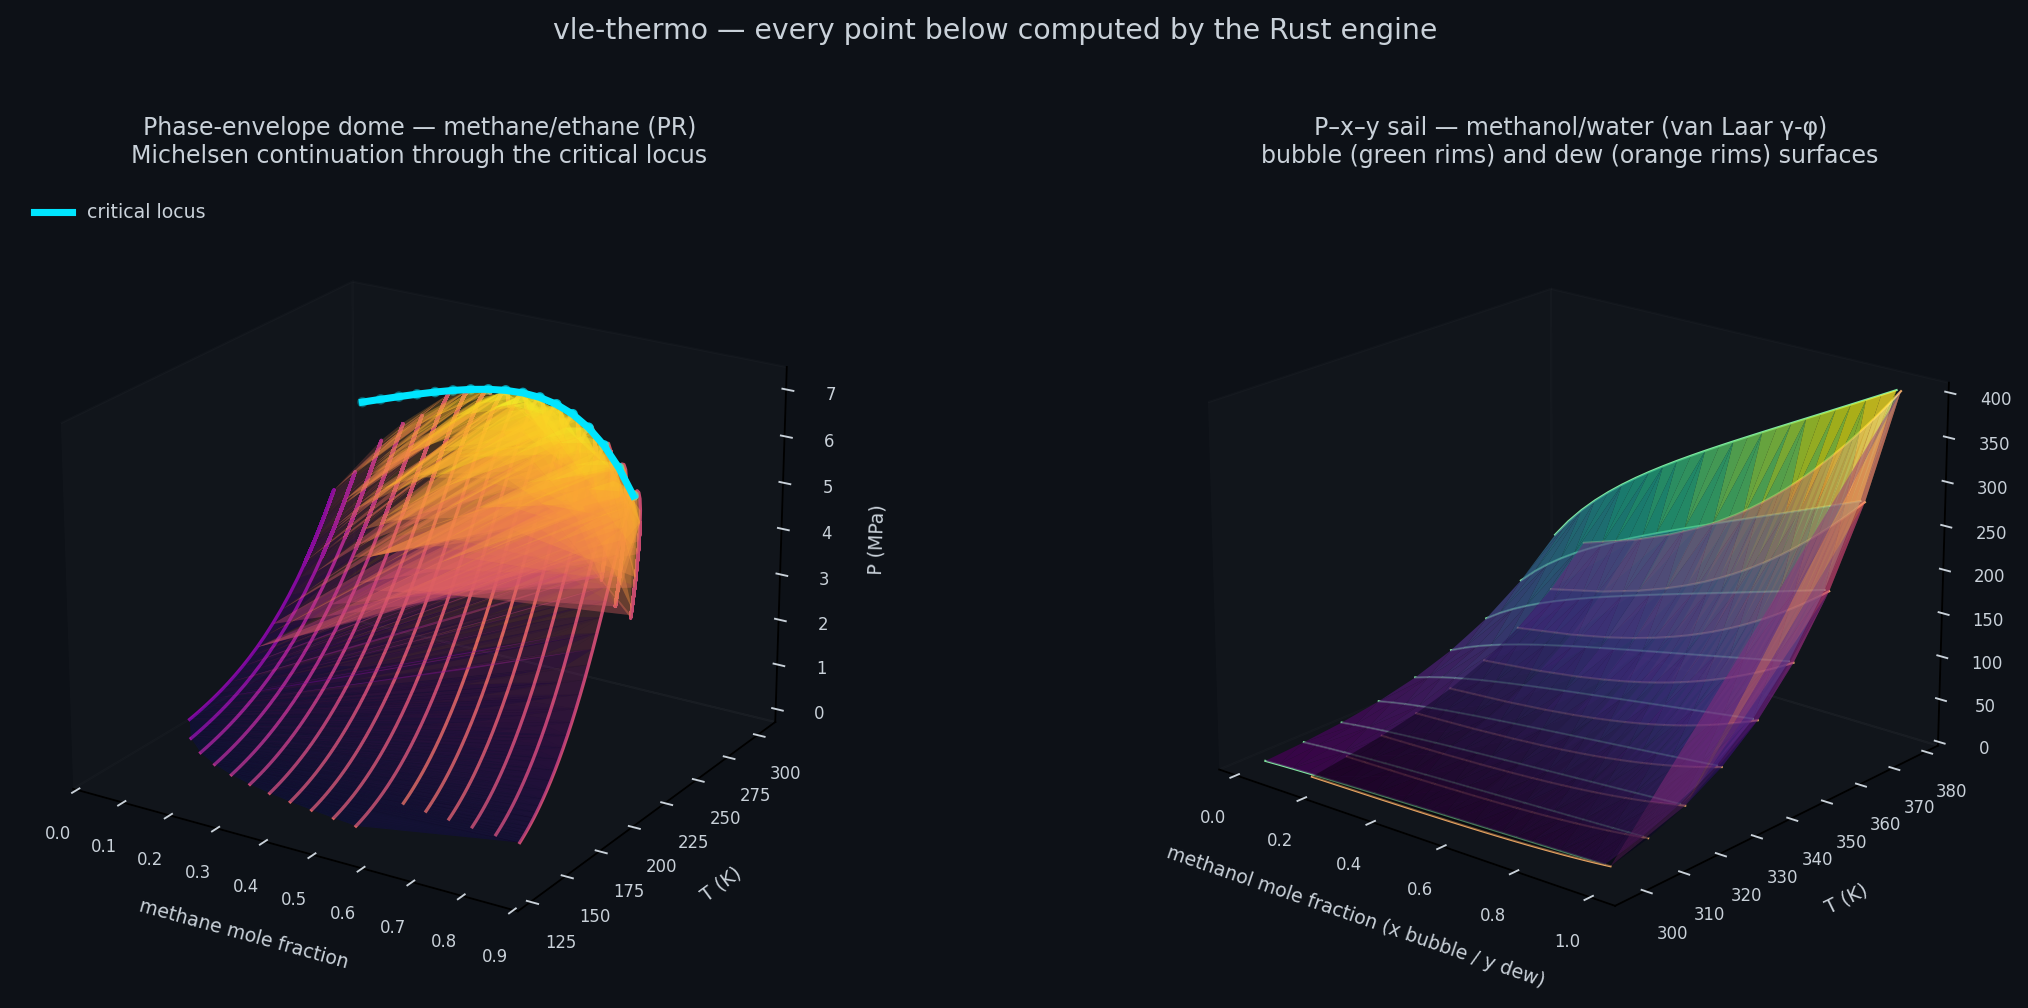
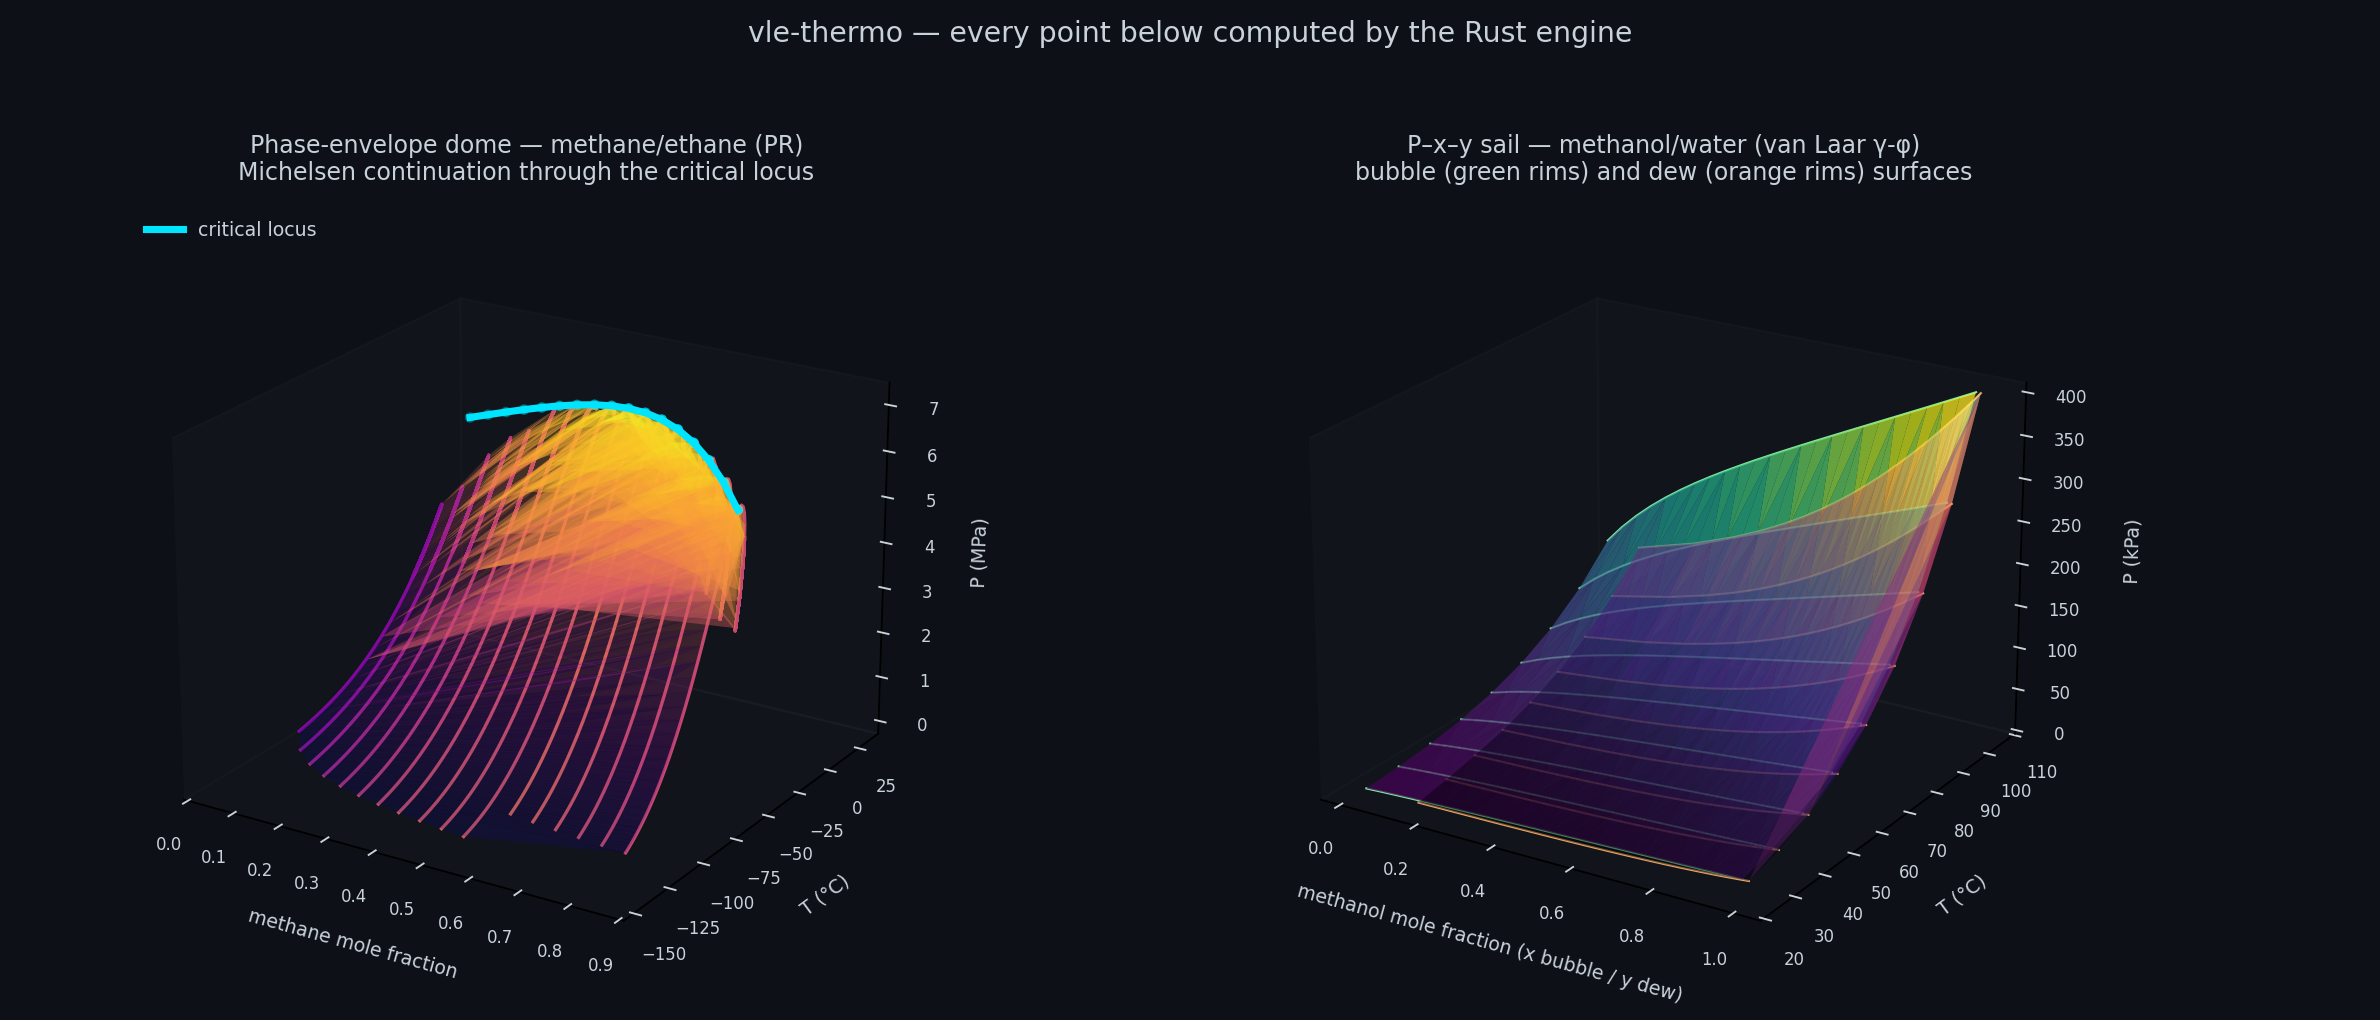
fix(assets): hero image in °C + visible sail pressure label
- Temperature axes on both 3-D panels now render in degrees Celsius
  (dome: −150 to 25 °C; sail: 20 to 110 °C). The conversion happens at
  render time only — the committed CSVs keep the engine's canonical
  Kelvin.
- The P–x–y sail's "P (kPa)" axis label was clipped at the figure edge by
  the bbox_inches="tight" export (mplot3d z-labels at the boundary get
  cut). Switched to explicit subplot margins with a reserved right margin
  and matched the dome's viewing geometry — both pressure labels are now
  visible.

Regenerated docs/assets/phase_surfaces_hero.png via
scripts/render_3d_hero.py.

Claude-Session: https://claude.ai/code/session_01EKPTwkPq6Pkk5ZQoivi8rd

diff --git a/scripts/render_3d_hero.py b/scripts/render_3d_hero.py
@@ -52,7 +52,8 @@ def main() -> None:
     # ---- Left: the phase-envelope dome --------------------------------
     ax1 = fig.add_subplot(1, 2, 1, projection="3d")
     style_axis(ax1)
-    z1, t, p = dome["z1"], dome["T_K"], dome["P_kPa"]
+    # Render temperatures in °C (the CSVs keep the engine's canonical K).
+    z1, t, p = dome["z1"], dome["T_K"] - 273.15, dome["P_kPa"]
     # Envelope curves per composition, colored by pressure (plasma).
     norm = plt.Normalize(p.min(), p.max())
     for z_val in np.unique(z1):
@@ -70,15 +71,15 @@ def main() -> None:
     # Critical locus — the glowing ridge.
     order = np.argsort(crit["z1"])
     ax1.plot(
-        crit["z1"][order], crit["Tc_K"][order], crit["Pc_kPa"][order] / 1000.0,
+        crit["z1"][order], (crit["Tc_K"][order] - 273.15), crit["Pc_kPa"][order] / 1000.0,
         color="#00e5ff", lw=3.0, alpha=1.0, zorder=10, label="critical locus",
     )
     ax1.scatter(
-        crit["z1"][order], crit["Tc_K"][order], crit["Pc_kPa"][order] / 1000.0,
+        crit["z1"][order], (crit["Tc_K"][order] - 273.15), crit["Pc_kPa"][order] / 1000.0,
         color="#00e5ff", s=12, zorder=11,
     )
     ax1.set_xlabel("methane mole fraction", color=FG, fontsize=8, labelpad=6)
-    ax1.set_ylabel("T (K)", color=FG, fontsize=8, labelpad=6)
+    ax1.set_ylabel("T (°C)", color=FG, fontsize=8, labelpad=6)
     ax1.set_zlabel("P (MPa)", color=FG, fontsize=8, labelpad=4)
     ax1.set_title(
         "Phase-envelope dome — methane/ethane (PR)\nMichelsen continuation through the critical locus",
@@ -91,7 +92,7 @@ def main() -> None:
     # ---- Right: the P-x-y sail -----------------------------------------
     ax2 = fig.add_subplot(1, 2, 2, projection="3d")
     style_axis(ax2)
-    ts, x1, y1, ps = sail["T_K"], sail["x1"], sail["y1"], sail["P_kPa"]
+    ts, x1, y1, ps = sail["T_K"] - 273.15, sail["x1"], sail["y1"], sail["P_kPa"]
     # Bubble surface (over x1) and dew surface (over y1) as trisurfs.
     ax2.plot_trisurf(x1, ts, ps, cmap="viridis", alpha=0.75, linewidth=0.0,
                      antialiased=True)
@@ -104,21 +105,28 @@ def main() -> None:
         ax2.plot(y1[m], ts[m], ps[m], color="#ffb46b", lw=0.9, alpha=0.9)
     ax2.set_xlabel("methanol mole fraction (x bubble / y dew)", color=FG,
                    fontsize=8, labelpad=6)
-    ax2.set_ylabel("T (K)", color=FG, fontsize=8, labelpad=6)
-    ax2.set_zlabel("P (kPa)", color=FG, fontsize=8, labelpad=4)
+    ax2.set_ylabel("T (°C)", color=FG, fontsize=8, labelpad=6)
+    ax2.set_zlabel("P (kPa)", color=FG, fontsize=8, labelpad=8)
     ax2.set_title(
         "P–x–y sail — methanol/water (van Laar γ-φ)\nbubble (green rims) and dew (orange rims) surfaces",
         color=FG, fontsize=10, pad=10,
     )
-    ax2.view_init(elev=20, azim=-50)
+    # Mirror the dome's viewing geometry: with azim=-58 the z-axis sits
+    # inside the frame (not at the crop edge), so the "P (kPa)" label
+    # stays visible in the tight-bbox export.
+    ax2.view_init(elev=22, azim=-58)
 
     fig.suptitle(
         "vle-thermo — every point below computed by the Rust engine",
         color=FG, fontsize=12, y=0.98,
     )
-    fig.tight_layout(rect=(0, 0, 1, 0.96))
+    # Explicit margins instead of bbox_inches="tight": the tight-bbox export
+    # clips mplot3d z-axis labels that sit at the figure edge (the sail's
+    # "P (kPa)"). A reserved right margin keeps both pressure labels visible,
+    # and the lowered top keeps the subplot titles clear of the suptitle.
+    fig.subplots_adjust(left=0.0, right=0.92, top=0.80, bottom=0.02, wspace=0.08)
     OUT.parent.mkdir(parents=True, exist_ok=True)
-    fig.savefig(OUT, dpi=170, facecolor=BG, bbox_inches="tight")
+    fig.savefig(OUT, dpi=170, facecolor=BG)
     size_kb = OUT.stat().st_size / 1024
     print(f"wrote {OUT.relative_to(REPO_ROOT)}  ({size_kb:.0f} KB)")
 
